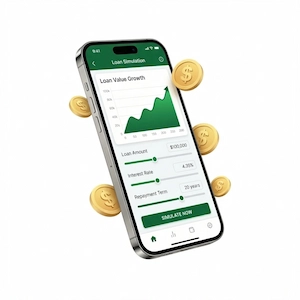
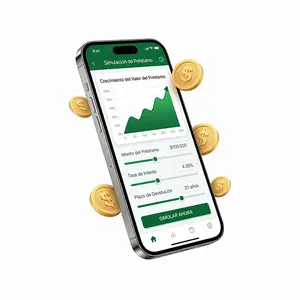
registro-simulador: eliminacion de boton quiero mi prestamo en ruta - imagen modififcada al español

diff --git a/src/Components/Header/Header.jsx b/src/Components/Header/Header.jsx
@@ -131,9 +131,11 @@ const Header = () => {
       </nav>
 
       <div className='buttons-container'>
-        <a href='http://wa.me/5491137570853' target='_blank' rel='noopener noreferrer' aria-label="Quiero mi préstamo por WhatsApp">
-          <button className='primary-btn header-primary-btn'>Quiero mi préstamo</button>
-        </a>
+        {pathname !== '/registro-simulador' && (
+          <a href='http://wa.me/5491137570853' target='_blank' rel='noopener noreferrer' aria-label="Quiero mi préstamo por WhatsApp">
+            <button className='primary-btn header-primary-btn'>Quiero mi préstamo</button>
+          </a>
+        )}
         <button className='btn-show-links' onClick={() => handleToggleNavbar(true)} aria-label='Abrir menú de navegación'>
           <FiMenu />
         </button>
